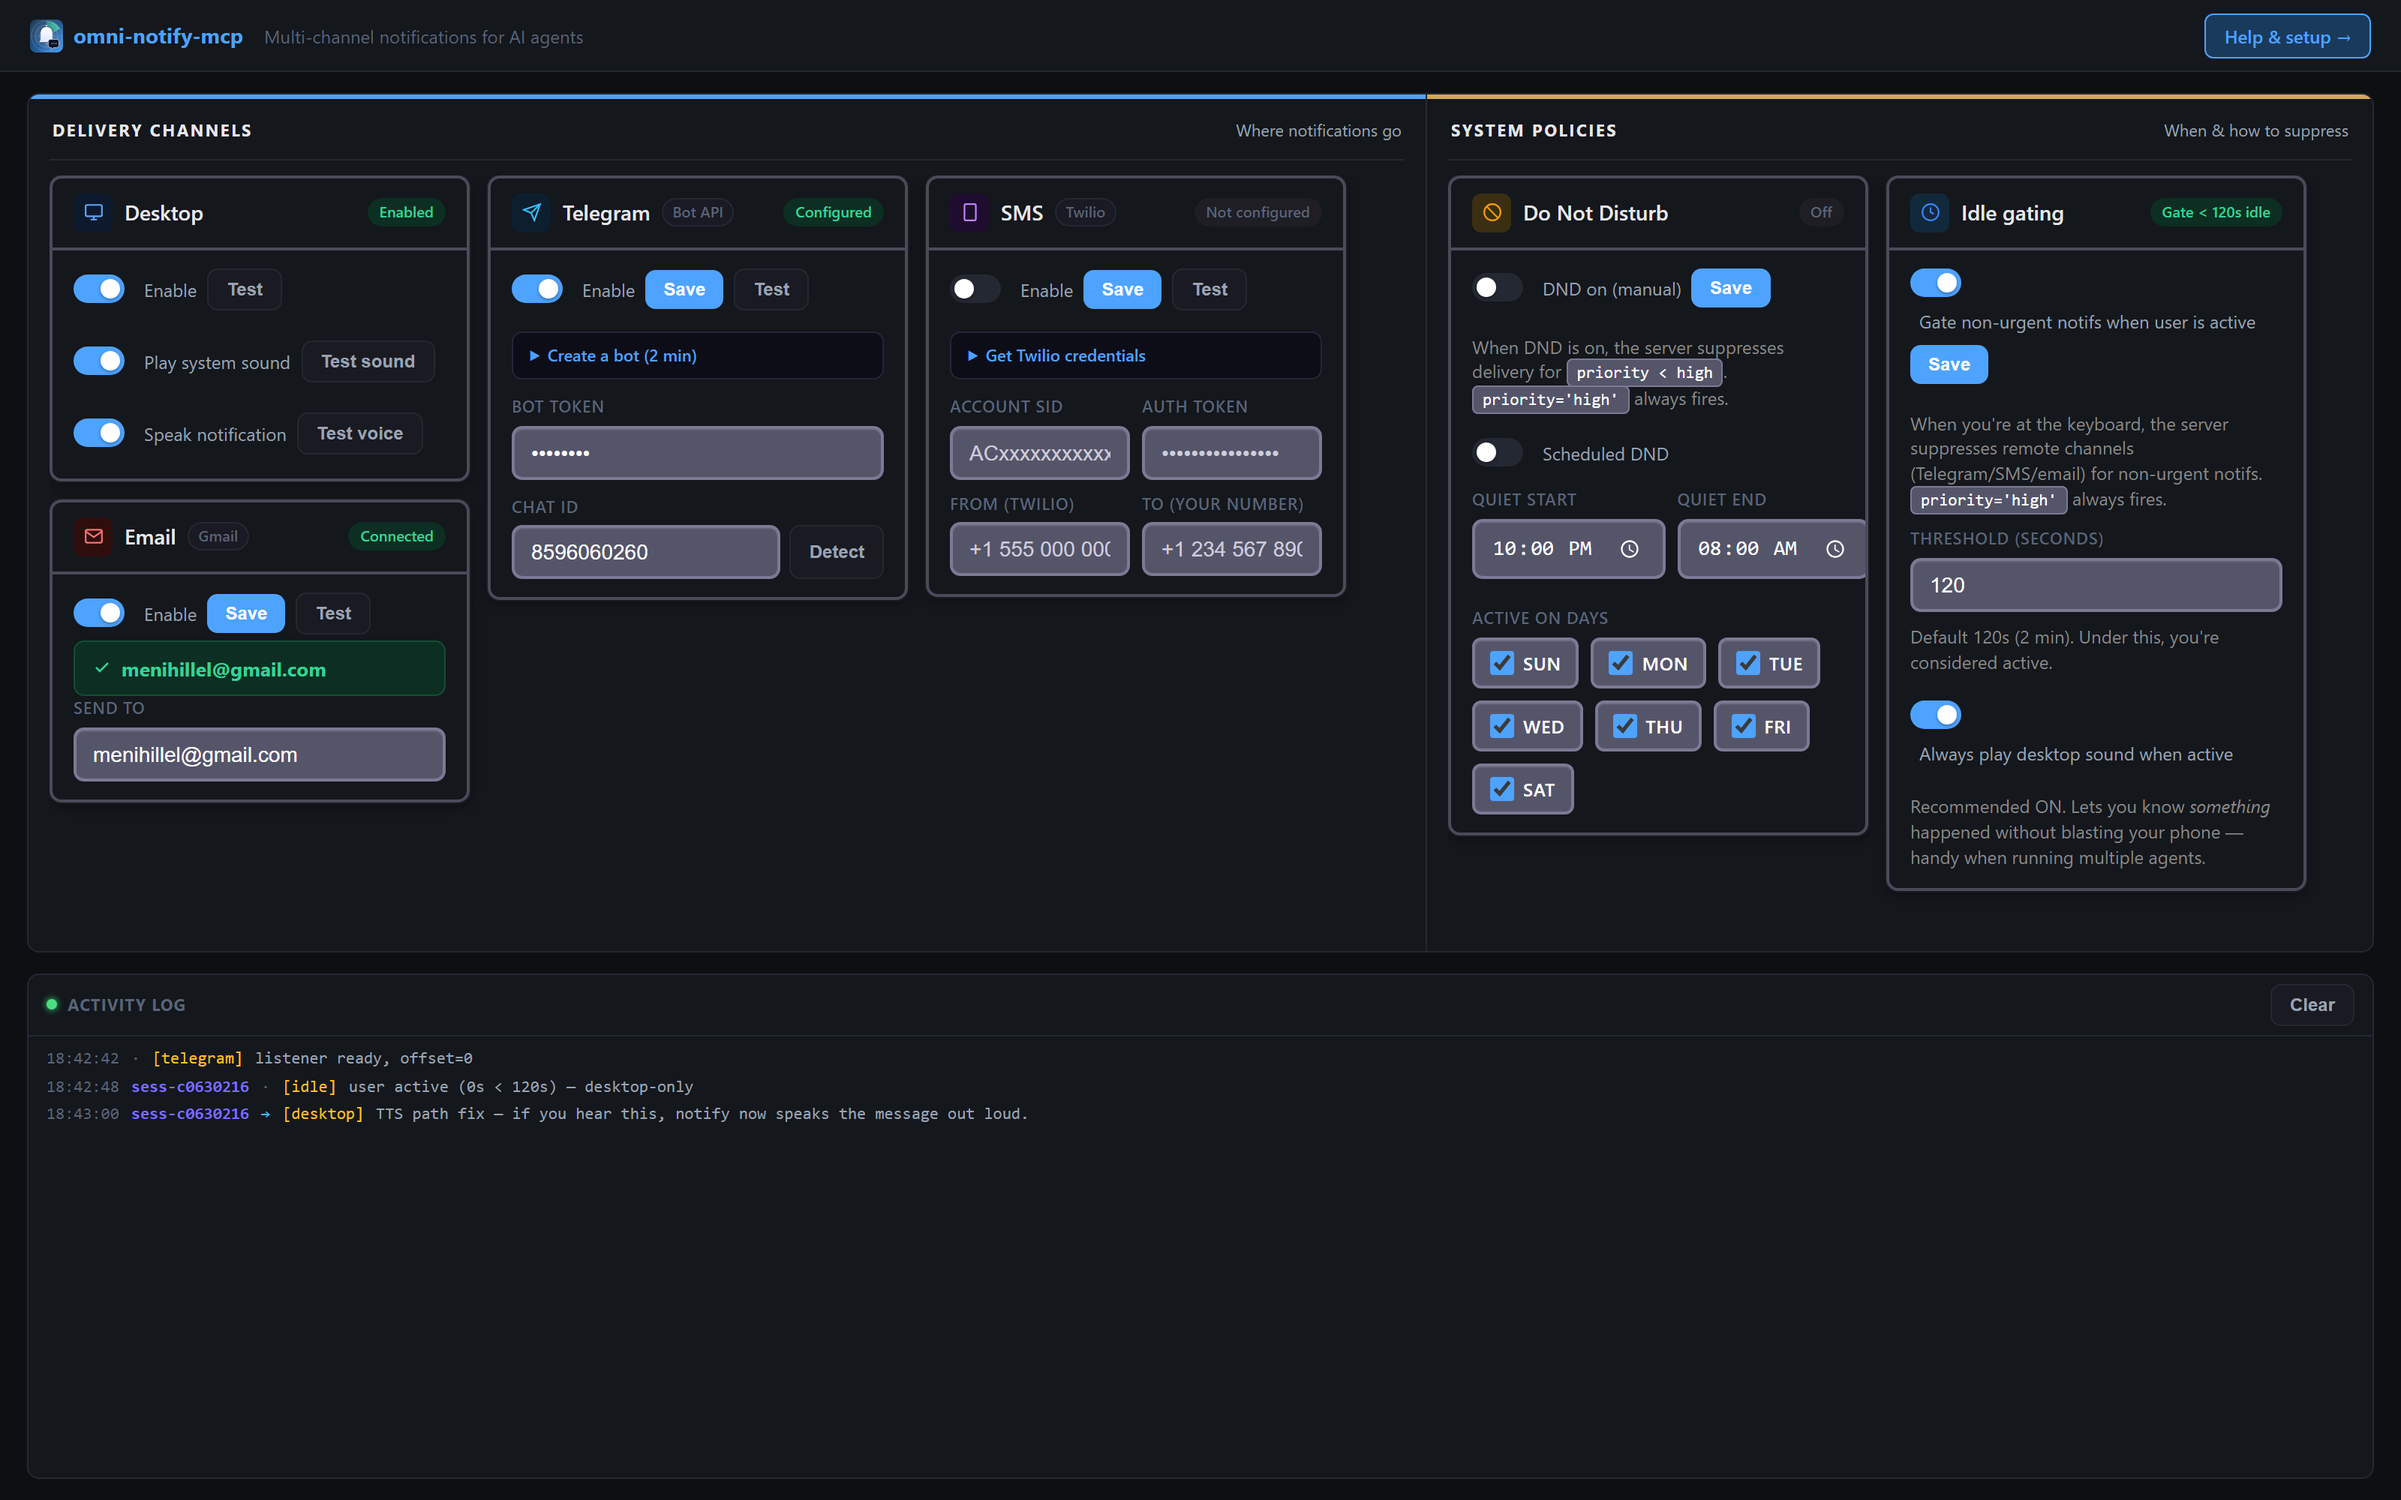
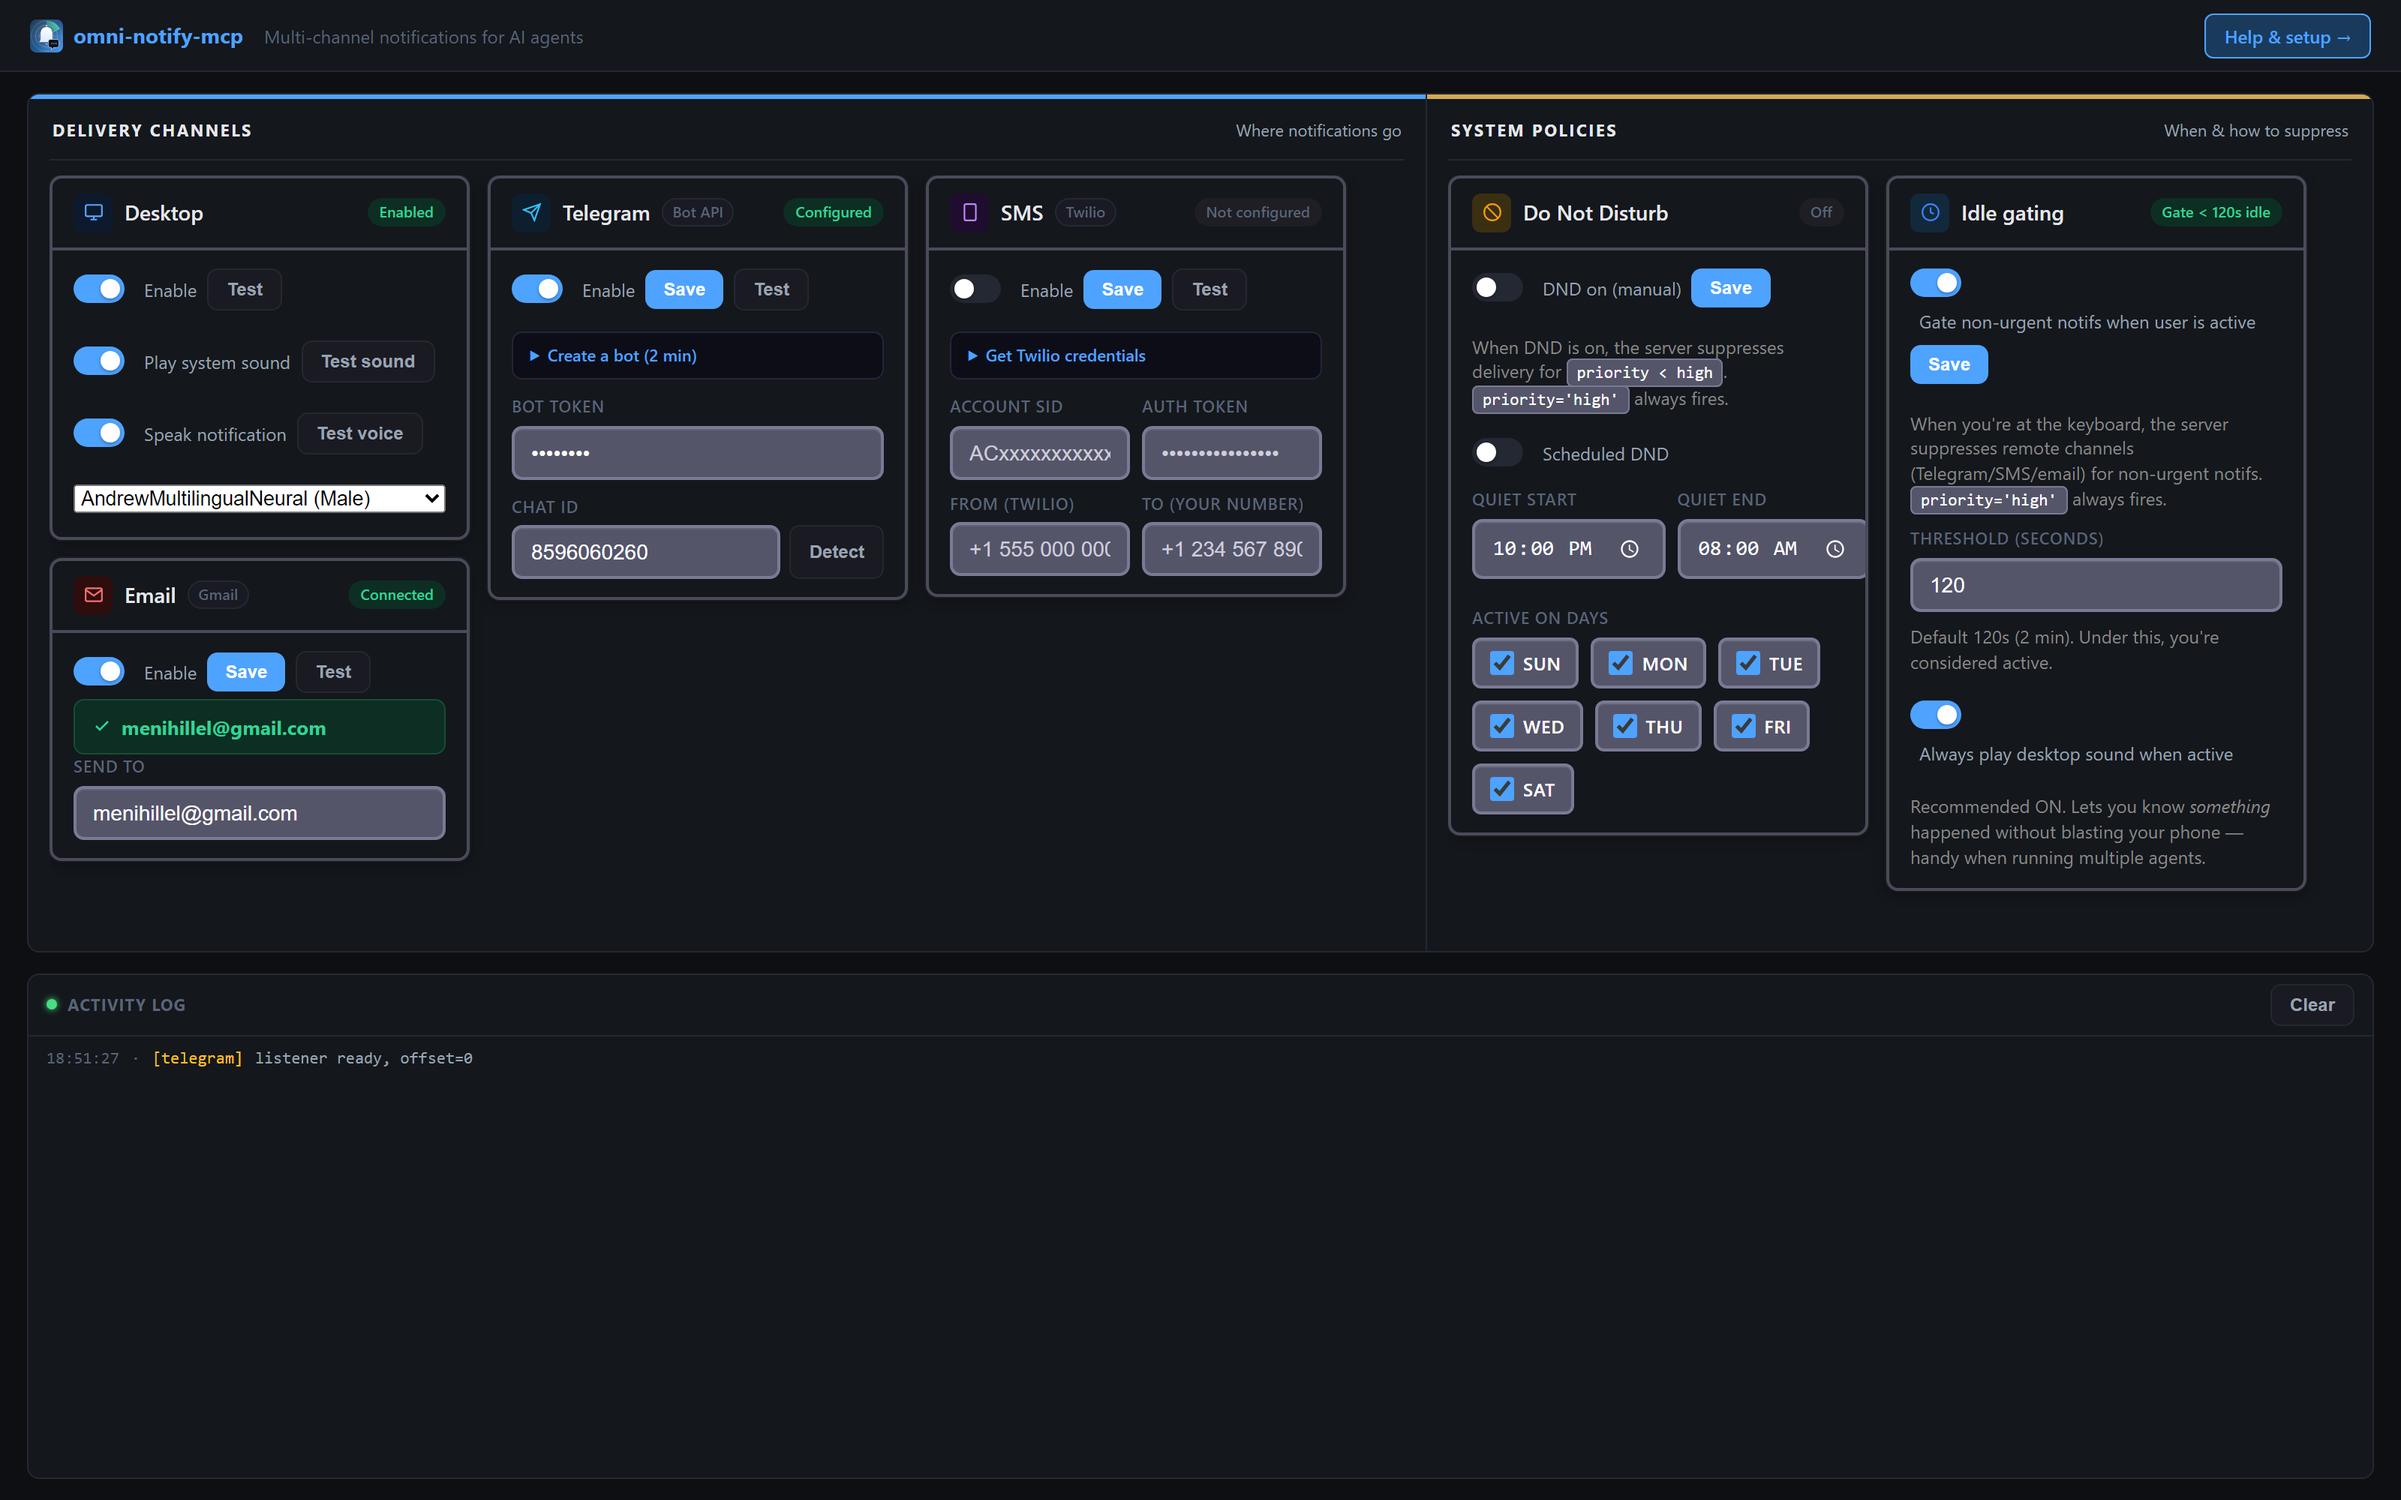
Add voice picker dropdown for TTS
Adds a GET /api/voices endpoint that fetches the en-* Neural voices from
Microsoft (cached 24h) and exposes them as a dropdown under the Speak
notification toggle. The Test voice button uses the currently-selected
voice. Dropdown hides when TTS is off.

Changed region(s): [[0.0312, 0.31, 0.1875, 0.589], [0.0312, 0.713, 0.2812, 0.744]]

diff --git a/ui/public/app.js b/ui/public/app.js
@@ -45,6 +45,8 @@ function populateForm() {
   $("desktop-enabled").checked = !!config.desktop?.enabled;
   $("desktop-sound").checked = config.desktop?.sound !== false; // default on
   $("desktop-tts").checked = !!config.desktop?.tts; // default off
+  updateTtsVoiceRow();
+  loadVoices().catch(() => {});
 
   // Email / Gmail
   const email = config.email ?? {};
@@ -151,13 +153,47 @@ function setBadge(channel, type, text) {
 // ── Save handlers ─────────────────────────────────────────────────────────
 
 function saveDesktop() {
+  updateTtsVoiceRow();
+  const ttsVoice = $("desktop-tts-voice").value || undefined;
   patch({
     desktop: {
       enabled: $("desktop-enabled").checked,
       sound: $("desktop-sound").checked,
       tts: $("desktop-tts").checked,
+      ttsVoice,
     },
   });
+}
+
+function updateTtsVoiceRow() {
+  const row = $("tts-voice-row");
+  row.style.display = $("desktop-tts").checked ? "" : "none";
+}
+
+let voicesLoaded = false;
+async function loadVoices() {
+  if (voicesLoaded) return;
+  const res = await fetch("/api/voices");
+  if (!res.ok) return;
+  const { voices } = await res.json();
+  const sel = $("desktop-tts-voice");
+  const current = config.desktop?.ttsVoice || "en-US-AndrewMultilingualNeural";
+  const byLocale = {};
+  for (const v of voices) (byLocale[v.locale] ??= []).push(v);
+  sel.innerHTML = "";
+  for (const locale of Object.keys(byLocale).sort()) {
+    const og = document.createElement("optgroup");
+    og.label = locale;
+    for (const v of byLocale[locale].sort((a, b) => a.shortName.localeCompare(b.shortName))) {
+      const opt = document.createElement("option");
+      opt.value = v.shortName;
+      opt.textContent = `${v.shortName.replace(locale + "-", "")} (${v.gender})`;
+      if (v.shortName === current) opt.selected = true;
+      og.appendChild(opt);
+    }
+    sel.appendChild(og);
+  }
+  voicesLoaded = true;
 }
 
 async function saveEmail() {
@@ -402,7 +438,12 @@ async function testSound() {
 
 async function testTts() {
   try {
-    const res = await fetch("/api/test/tts", { method: "POST" });
+    const voice = $("desktop-tts-voice").value || undefined;
+    const res = await fetch("/api/test/tts", {
+      method: "POST",
+      headers: { "Content-Type": "application/json" },
+      body: JSON.stringify({ voice }),
+    });
     const json = await res.json();
     if (!res.ok) throw new Error(json.error);
     toast(json.message, "ok");

diff --git a/ui/server.ts b/ui/server.ts
@@ -198,12 +198,35 @@ async function speakText(text: string, voice: string): Promise<void> {
   }
 }
 
-app.post("/api/test/tts", async (_req, res) => {
+app.post("/api/test/tts", async (req, res) => {
   try {
     const cfg = loadConfig();
-    const voice = cfg.desktop?.ttsVoice ?? "en-US-AndrewMultilingualNeural";
+    const voice =
+      (typeof req.body?.voice === "string" && req.body.voice) ||
+      cfg.desktop?.ttsVoice ||
+      "en-US-AndrewMultilingualNeural";
     await speakText("Notification from Claude. This is a voice test.", voice);
     res.json({ ok: true, message: `TTS played (${voice})` });
+  } catch (err) {
+    res.status(500).json({ error: err instanceof Error ? err.message : String(err) });
+  }
+});
+
+let voiceCache: { ts: number; voices: any[] } | null = null;
+app.get("/api/voices", async (_req, res) => {
+  try {
+    if (!voiceCache || Date.now() - voiceCache.ts > 24 * 60 * 60 * 1000) {
+      const mod: any = await import("msedge-tts");
+      const tts = new mod.MsEdgeTTS();
+      const all = await tts.getVoices();
+      voiceCache = {
+        ts: Date.now(),
+        voices: all
+          .filter((v: any) => v.Locale.startsWith("en-") && v.ShortName.includes("Neural"))
+          .map((v: any) => ({ shortName: v.ShortName, gender: v.Gender, locale: v.Locale })),
+      };
+    }
+    res.json({ voices: voiceCache.voices });
   } catch (err) {
     res.status(500).json({ error: err instanceof Error ? err.message : String(err) });
   }

diff --git a/ui/public/index.html b/ui/public/index.html
@@ -63,6 +63,9 @@
             <span class="toggle-lbl">Speak notification</span>
             <button class="btn btn-sm btn-ghost" onclick="testTts()">Test voice</button>
           </div>
+          <div id="tts-voice-row" class="actions" style="margin-top:6px; display:none">
+            <select id="desktop-tts-voice" onchange="saveDesktop()" style="flex:1; min-width:0"></select>
+          </div>
           <span id="os-hint" class="os-tag hidden"></span>
         </div>
       </div>

diff --git a/README.md b/README.md
@@ -86,7 +86,7 @@ Priority routing for `notify`:
 ## Features
 
 ### Channels
-- **Desktop** — native `node-notifier` (macOS/Windows/Linux). Per-channel **system-sound toggle** and optional **text-to-speech** (natural neural voice via `msedge-tts`, no API key).
+- **Desktop** — native `node-notifier` (macOS/Windows/Linux). Per-channel **system-sound toggle** and optional **text-to-speech** with a voice picker covering 30+ neural voices (US/UK/AU/CA/IN/IE/NZ/…) via `msedge-tts`, no API key.
 - **Telegram** — bidirectional. The bot **replies in-thread** to user messages and acknowledges every inbound message so the user knows it landed.
 - **SMS** — Twilio.
 - **Email** — Gmail App Password (one click) or any SMTP. `ask` over email sends a reply link the user clicks to answer.

diff --git a/vscode-extension/README.md b/vscode-extension/README.md
@@ -73,7 +73,7 @@ Six tools, all server-configured (the agent never names a channel):
 ## Features (handled by the npm package)
 
 - **Multi-channel fan-out**: desktop, Telegram, SMS, email — pick what you want
-- **Text-to-speech**: desktop notifs can be spoken out loud in a natural neural voice (off by default; toggle in the config UI)
+- **Text-to-speech**: desktop notifs can be spoken out loud in a natural neural voice — 30+ voices to pick from (US/UK/AU/CA/etc.) in the config UI, off by default
 - **Two-way `ask`**: agent waits for your reply via Telegram thread or email link
 - **Real-time inbox** (SSE) for unsolicited user messages
 - **Multi-session tagging**: route a Telegram message to a specific agent with `@<tag>`
